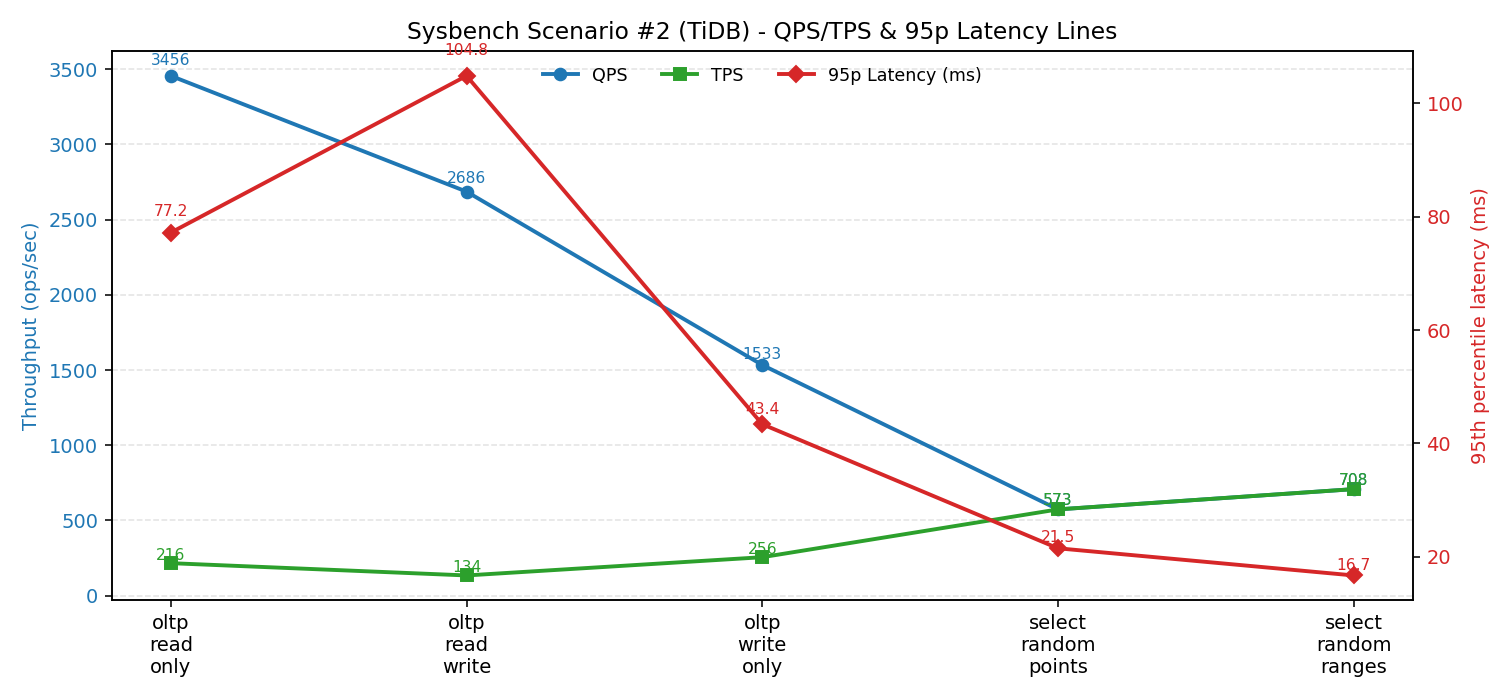
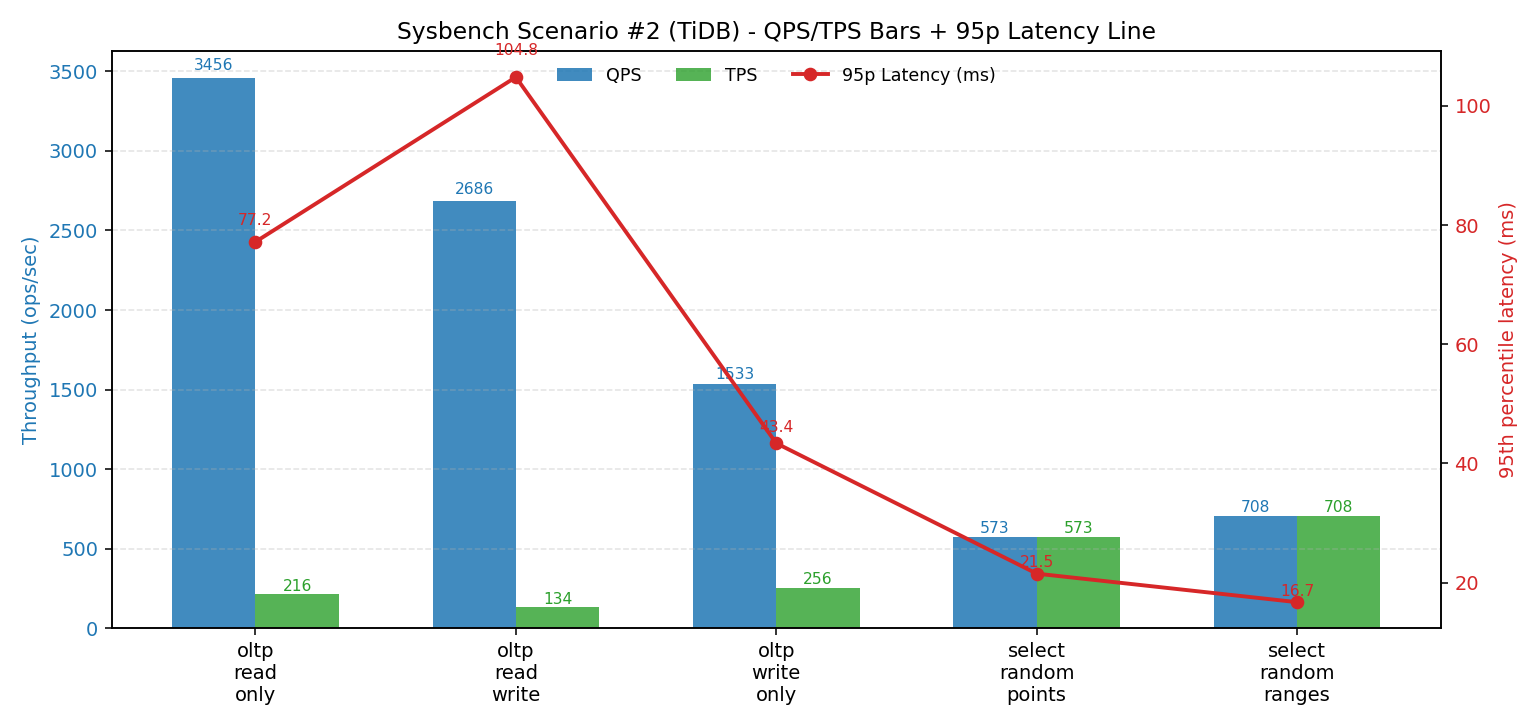
update

diff --git a/tidb/sysbench_results_#2_tidb.py b/tidb/sysbench_results_#2_tidb.py
@@ -1,5 +1,5 @@
 #!/usr/bin/env python3
-"""Plot Sysbench Scenario #2 (TiDB) results as line charts.
+"""Plot Sysbench Scenario #2 (TiDB) results as bar (QPS/TPS) + line (p95) chart.
 
 Scenario #2 numbers (IDC *3 baseline, no TiProxy) - from markdown table:
 Workload               p95(ms)   QPS       TPS
@@ -10,8 +10,9 @@ select_random_points   21.50     573.45    573.45
 select_random_ranges   16.71     708.15    708.15
 
 Chart:
-  - Three lines: QPS, TPS (left Y) ; p95 latency (right Y).
-  - Markers + value annotations.
+    - Grouped bars: QPS & TPS (left Y axis)
+    - Line: p95 latency (right Y axis)
+    - Value annotations on each bar + latency point
 
 Outputs:
   sysbench_results_#2_tidb_summary.png
@@ -87,12 +88,13 @@ def plot():  # pragma: no cover
     tps = [r.tps for r in DATA]
 
     x = list(range(len(names)))
-    fig, ax_thr = plt.subplots(figsize=(10.8, 5.0))
+    fig, ax_thr = plt.subplots(figsize=(11, 5.2))
     ax_lat = ax_thr.twinx()
 
-    l_qps = ax_thr.plot(x, qps, marker='o', linewidth=2, color="#1f77b4", label="QPS")
-    l_tps = ax_thr.plot(x, tps, marker='s', linewidth=2, color="#2ca02c", label="TPS")
-    l_p95 = ax_lat.plot(x, p95, marker='D', linewidth=2, color="#d62728", label="95p Latency (ms)")
+    width = 0.32
+    b_q = ax_thr.bar([i - width/2 for i in x], qps, width=width, color="#1f77b4", alpha=0.85, label="QPS")
+    b_t = ax_thr.bar([i + width/2 for i in x], tps, width=width, color="#2ca02c", alpha=0.80, label="TPS")
+    l_p, = ax_lat.plot(x, p95, color="#d62728", marker='o', linewidth=2, label="95p Latency (ms)")
 
     ax_thr.set_xticks(x)
     ax_thr.set_xticklabels([n.replace('_', '\n') for n in names])
@@ -101,20 +103,17 @@ def plot():  # pragma: no cover
     ax_thr.tick_params(axis='y', labelcolor="#1f77b4")
     ax_lat.tick_params(axis='y', labelcolor="#d62728")
     ax_thr.grid(axis='y', linestyle='--', alpha=0.35)
-    ax_thr.set_title('Sysbench Scenario #2 (TiDB) - QPS/TPS & 95p Latency Lines')
+    ax_thr.set_title('Sysbench Scenario #2 (TiDB) - QPS/TPS Bars + 95p Latency Line')
 
-    # Annotate points
-    for xi, val in enumerate(qps):
-        ax_thr.text(xi, val*1.015, f"{val:.0f}", ha='center', va='bottom', fontsize=8, color="#1f77b4")
-    for xi, val in enumerate(tps):
-        ax_thr.text(xi, val*1.015, f"{val:.0f}", ha='center', va='bottom', fontsize=8, color="#2ca02c")
+    # Annotate bars
+    for b in b_q:
+        ax_thr.text(b.get_x()+b.get_width()/2, b.get_height()*1.01, f"{b.get_height():.0f}", ha='center', va='bottom', fontsize=8, color="#1f77b4")
+    for b in b_t:
+        ax_thr.text(b.get_x()+b.get_width()/2, b.get_height()*1.01, f"{b.get_height():.0f}", ha='center', va='bottom', fontsize=8, color="#2ca02c")
     for xi, val in enumerate(p95):
         ax_lat.text(xi, val*1.03, f"{val:.1f}", ha='center', va='bottom', fontsize=8, color="#d62728")
 
-    # Build combined legend
-    handles = l_qps + l_tps + l_p95
-    labels = [h.get_label() for h in handles]
-    ax_thr.legend(handles, labels, loc='upper center', ncol=3, fontsize=9, frameon=False)
+    ax_thr.legend([b_q, b_t, l_p], ["QPS", "TPS", "95p Latency (ms)"], loc='upper center', ncol=3, fontsize=9, frameon=False)
 
     fig.tight_layout()
     fig.savefig(PNG_NAME, dpi=140)

diff --git a/tidb/sysbench_results_#2_tiproxy.py b/tidb/sysbench_results_#2_tiproxy.py
@@ -1,5 +1,5 @@
 #!/usr/bin/env python3
-"""Plot Sysbench Scenario #2 (TiProxy) results as line charts.
+"""Plot Sysbench Scenario #2 (TiProxy) results as bar (QPS/TPS) + line (p95) chart.
 
 Scenario #2 numbers (IDC *3 baseline, TiProxy) - from markdown table:
 Workload               p95(ms)   QPS       TPS
@@ -10,8 +10,9 @@ select_random_points   18.61     594.02    594.02
 select_random_ranges   16.12     676.82    676.82
 
 Chart:
-  - Three lines: QPS, TPS (left Y); p95 latency (right Y).
-  - Markers + value annotations.
+    - Grouped bars: QPS & TPS (left Y axis)
+    - Line: p95 latency (right Y axis)
+    - Value annotations on each bar + latency point
 
 Outputs:
   sysbench_results_#2_tiproxy_summary.png
@@ -87,12 +88,13 @@ def plot():  # pragma: no cover
     tps = [r.tps for r in DATA]
 
     x = list(range(len(names)))
-    fig, ax_thr = plt.subplots(figsize=(10.8, 5.0))
+    fig, ax_thr = plt.subplots(figsize=(11, 5.2))
     ax_lat = ax_thr.twinx()
 
-    l_qps = ax_thr.plot(x, qps, marker='o', linewidth=2, color="#1f77b4", label="QPS")
-    l_tps = ax_thr.plot(x, tps, marker='s', linewidth=2, color="#2ca02c", label="TPS")
-    l_p95 = ax_lat.plot(x, p95, marker='D', linewidth=2, color="#d62728", label="95p Latency (ms)")
+    width = 0.32
+    b_q = ax_thr.bar([i - width/2 for i in x], qps, width=width, color="#1f77b4", alpha=0.85, label="QPS")
+    b_t = ax_thr.bar([i + width/2 for i in x], tps, width=width, color="#2ca02c", alpha=0.80, label="TPS")
+    l_p, = ax_lat.plot(x, p95, color="#d62728", marker='o', linewidth=2, label="95p Latency (ms)")
 
     ax_thr.set_xticks(x)
     ax_thr.set_xticklabels([n.replace('_', '\n') for n in names])
@@ -101,19 +103,17 @@ def plot():  # pragma: no cover
     ax_thr.tick_params(axis='y', labelcolor="#1f77b4")
     ax_lat.tick_params(axis='y', labelcolor="#d62728")
     ax_thr.grid(axis='y', linestyle='--', alpha=0.35)
-    ax_thr.set_title('Sysbench Scenario #2 (TiProxy) - QPS/TPS & 95p Latency Lines')
+    ax_thr.set_title('Sysbench Scenario #2 (TiProxy) - QPS/TPS Bars + 95p Latency Line')
 
-    # Annotations
-    for xi, val in enumerate(qps):
-        ax_thr.text(xi, val*1.015, f"{val:.0f}", ha='center', va='bottom', fontsize=8, color="#1f77b4")
-    for xi, val in enumerate(tps):
-        ax_thr.text(xi, val*1.015, f"{val:.0f}", ha='center', va='bottom', fontsize=8, color="#2ca02c")
+    # Annotate bars & latency
+    for b in b_q:
+        ax_thr.text(b.get_x()+b.get_width()/2, b.get_height()*1.01, f"{b.get_height():.0f}", ha='center', va='bottom', fontsize=8, color="#1f77b4")
+    for b in b_t:
+        ax_thr.text(b.get_x()+b.get_width()/2, b.get_height()*1.01, f"{b.get_height():.0f}", ha='center', va='bottom', fontsize=8, color="#2ca02c")
     for xi, val in enumerate(p95):
         ax_lat.text(xi, val*1.03, f"{val:.1f}", ha='center', va='bottom', fontsize=8, color="#d62728")
 
-    handles = l_qps + l_tps + l_p95
-    labels = [h.get_label() for h in handles]
-    ax_thr.legend(handles, labels, loc='upper center', ncol=3, fontsize=9, frameon=False)
+    ax_thr.legend([b_q, b_t, l_p], ["QPS", "TPS", "95p Latency (ms)"], loc='upper center', ncol=3, fontsize=9, frameon=False)
 
     fig.tight_layout()
     fig.savefig(PNG_NAME, dpi=140)
